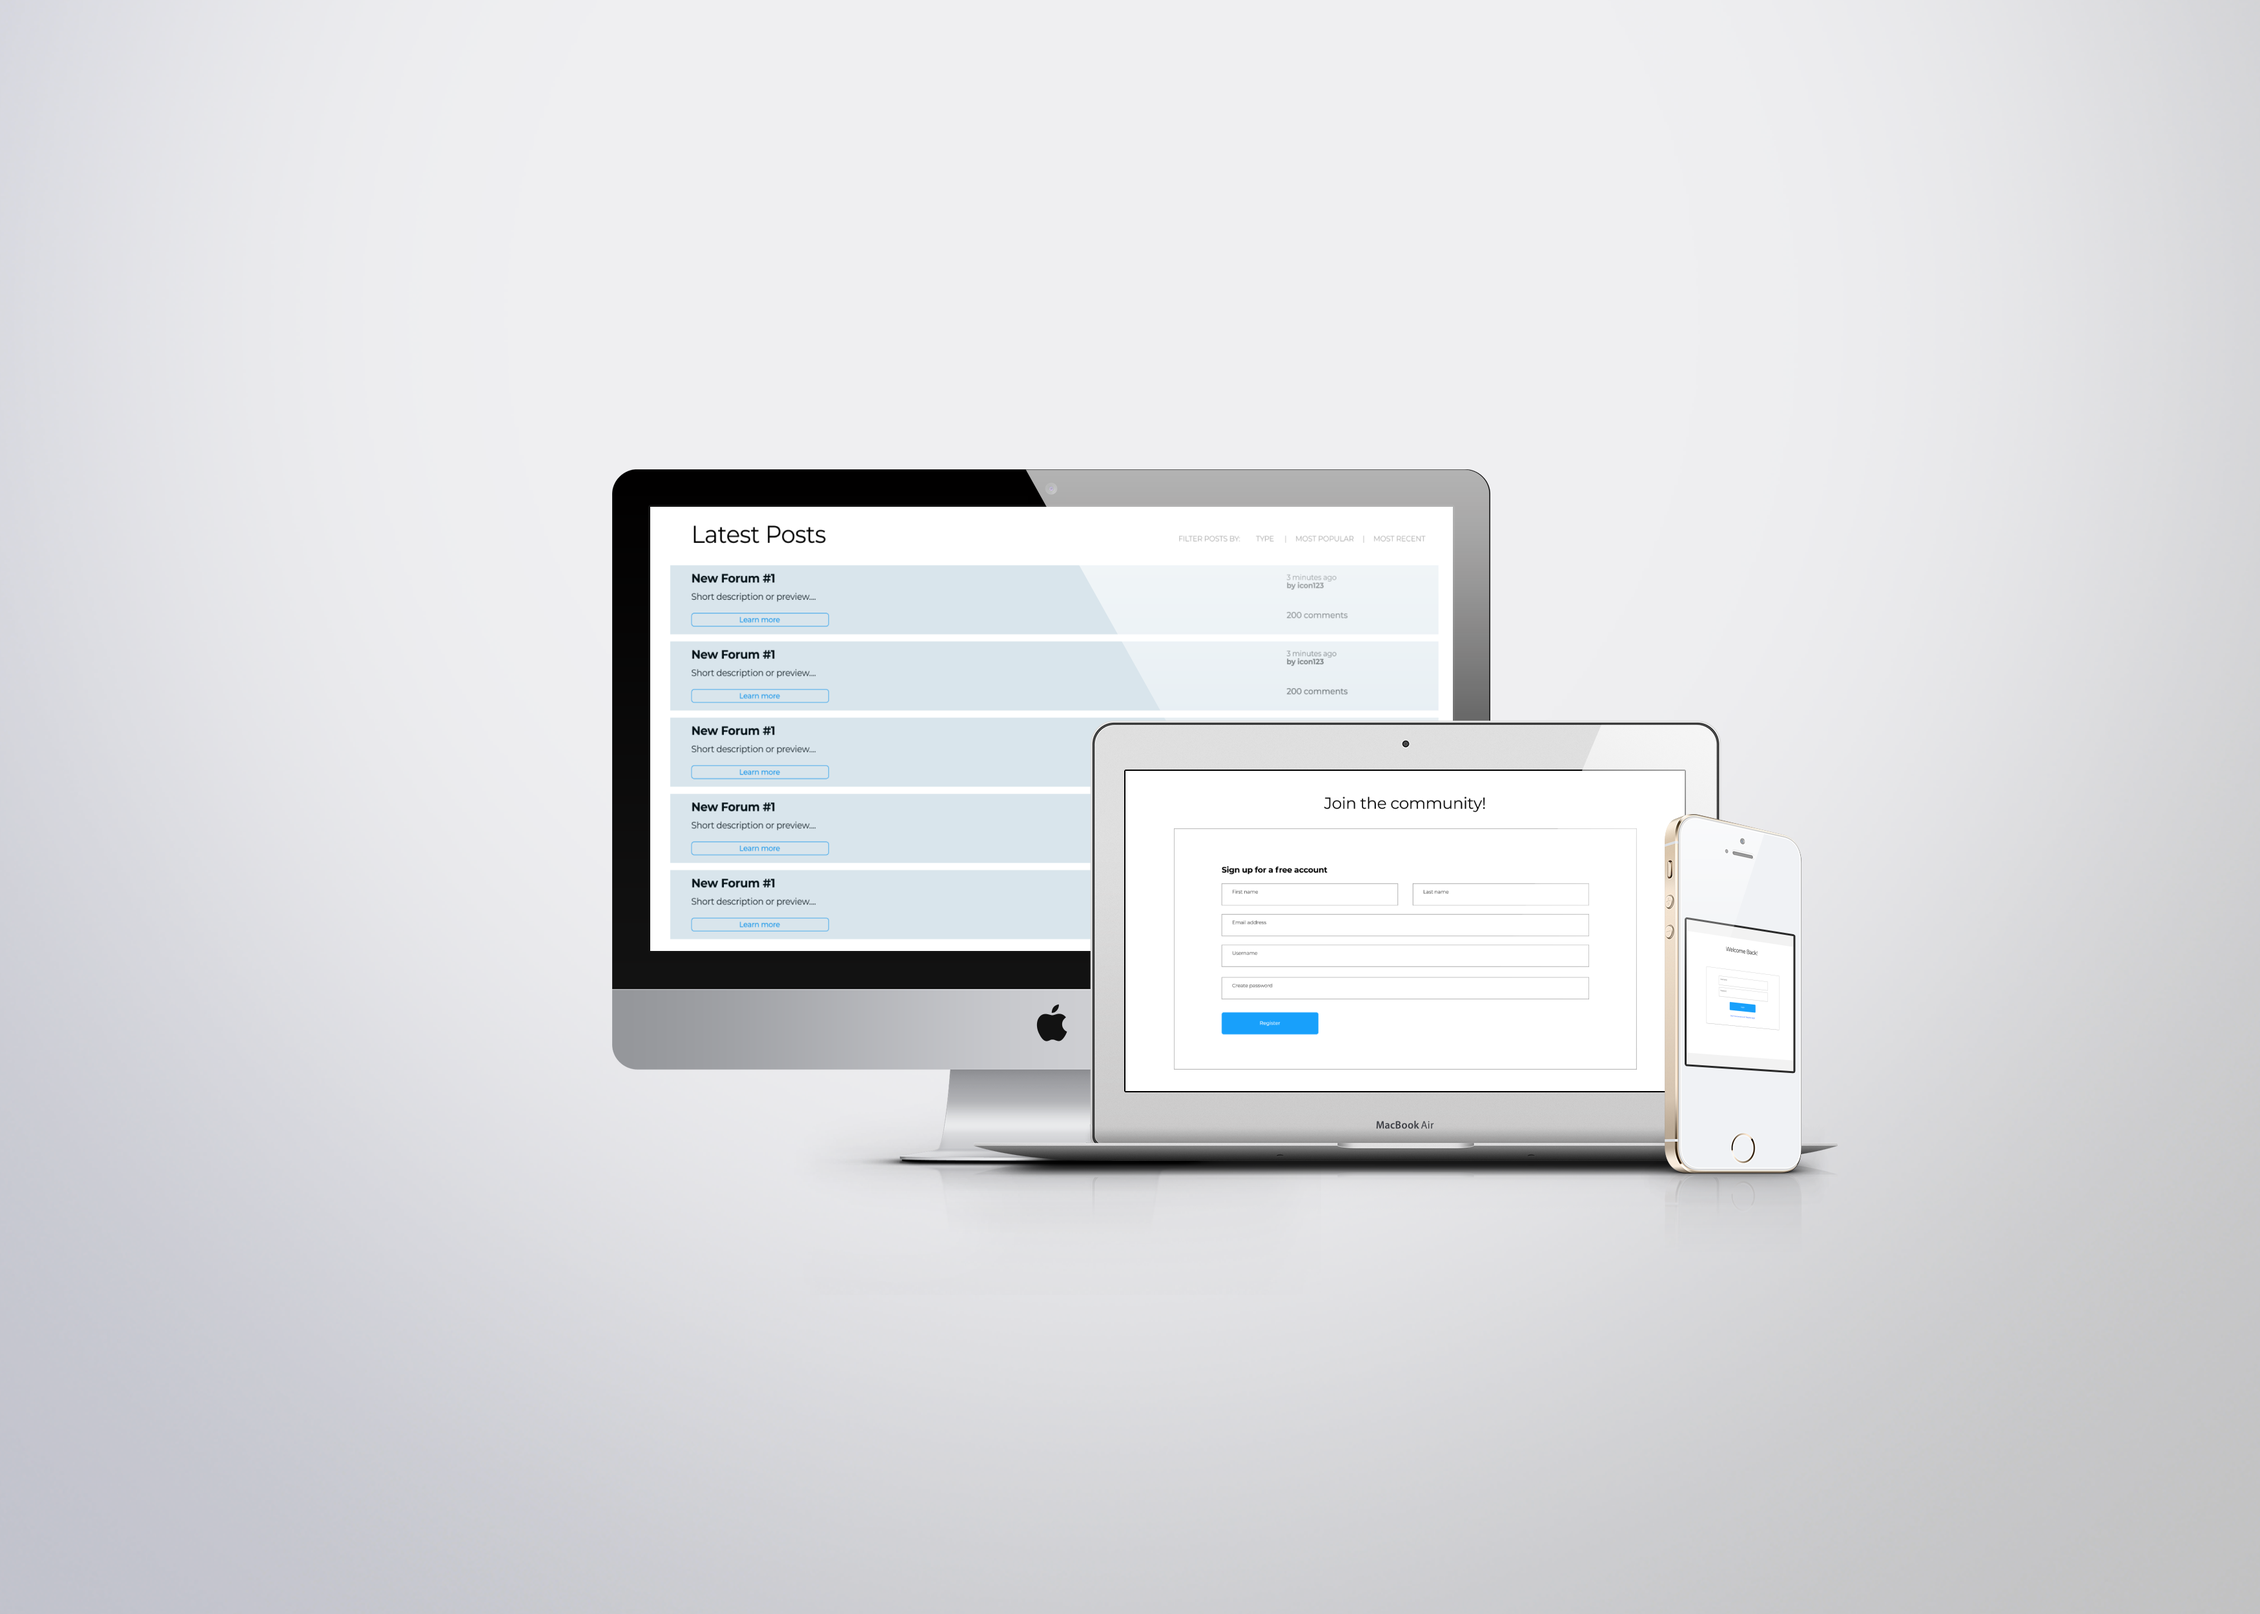
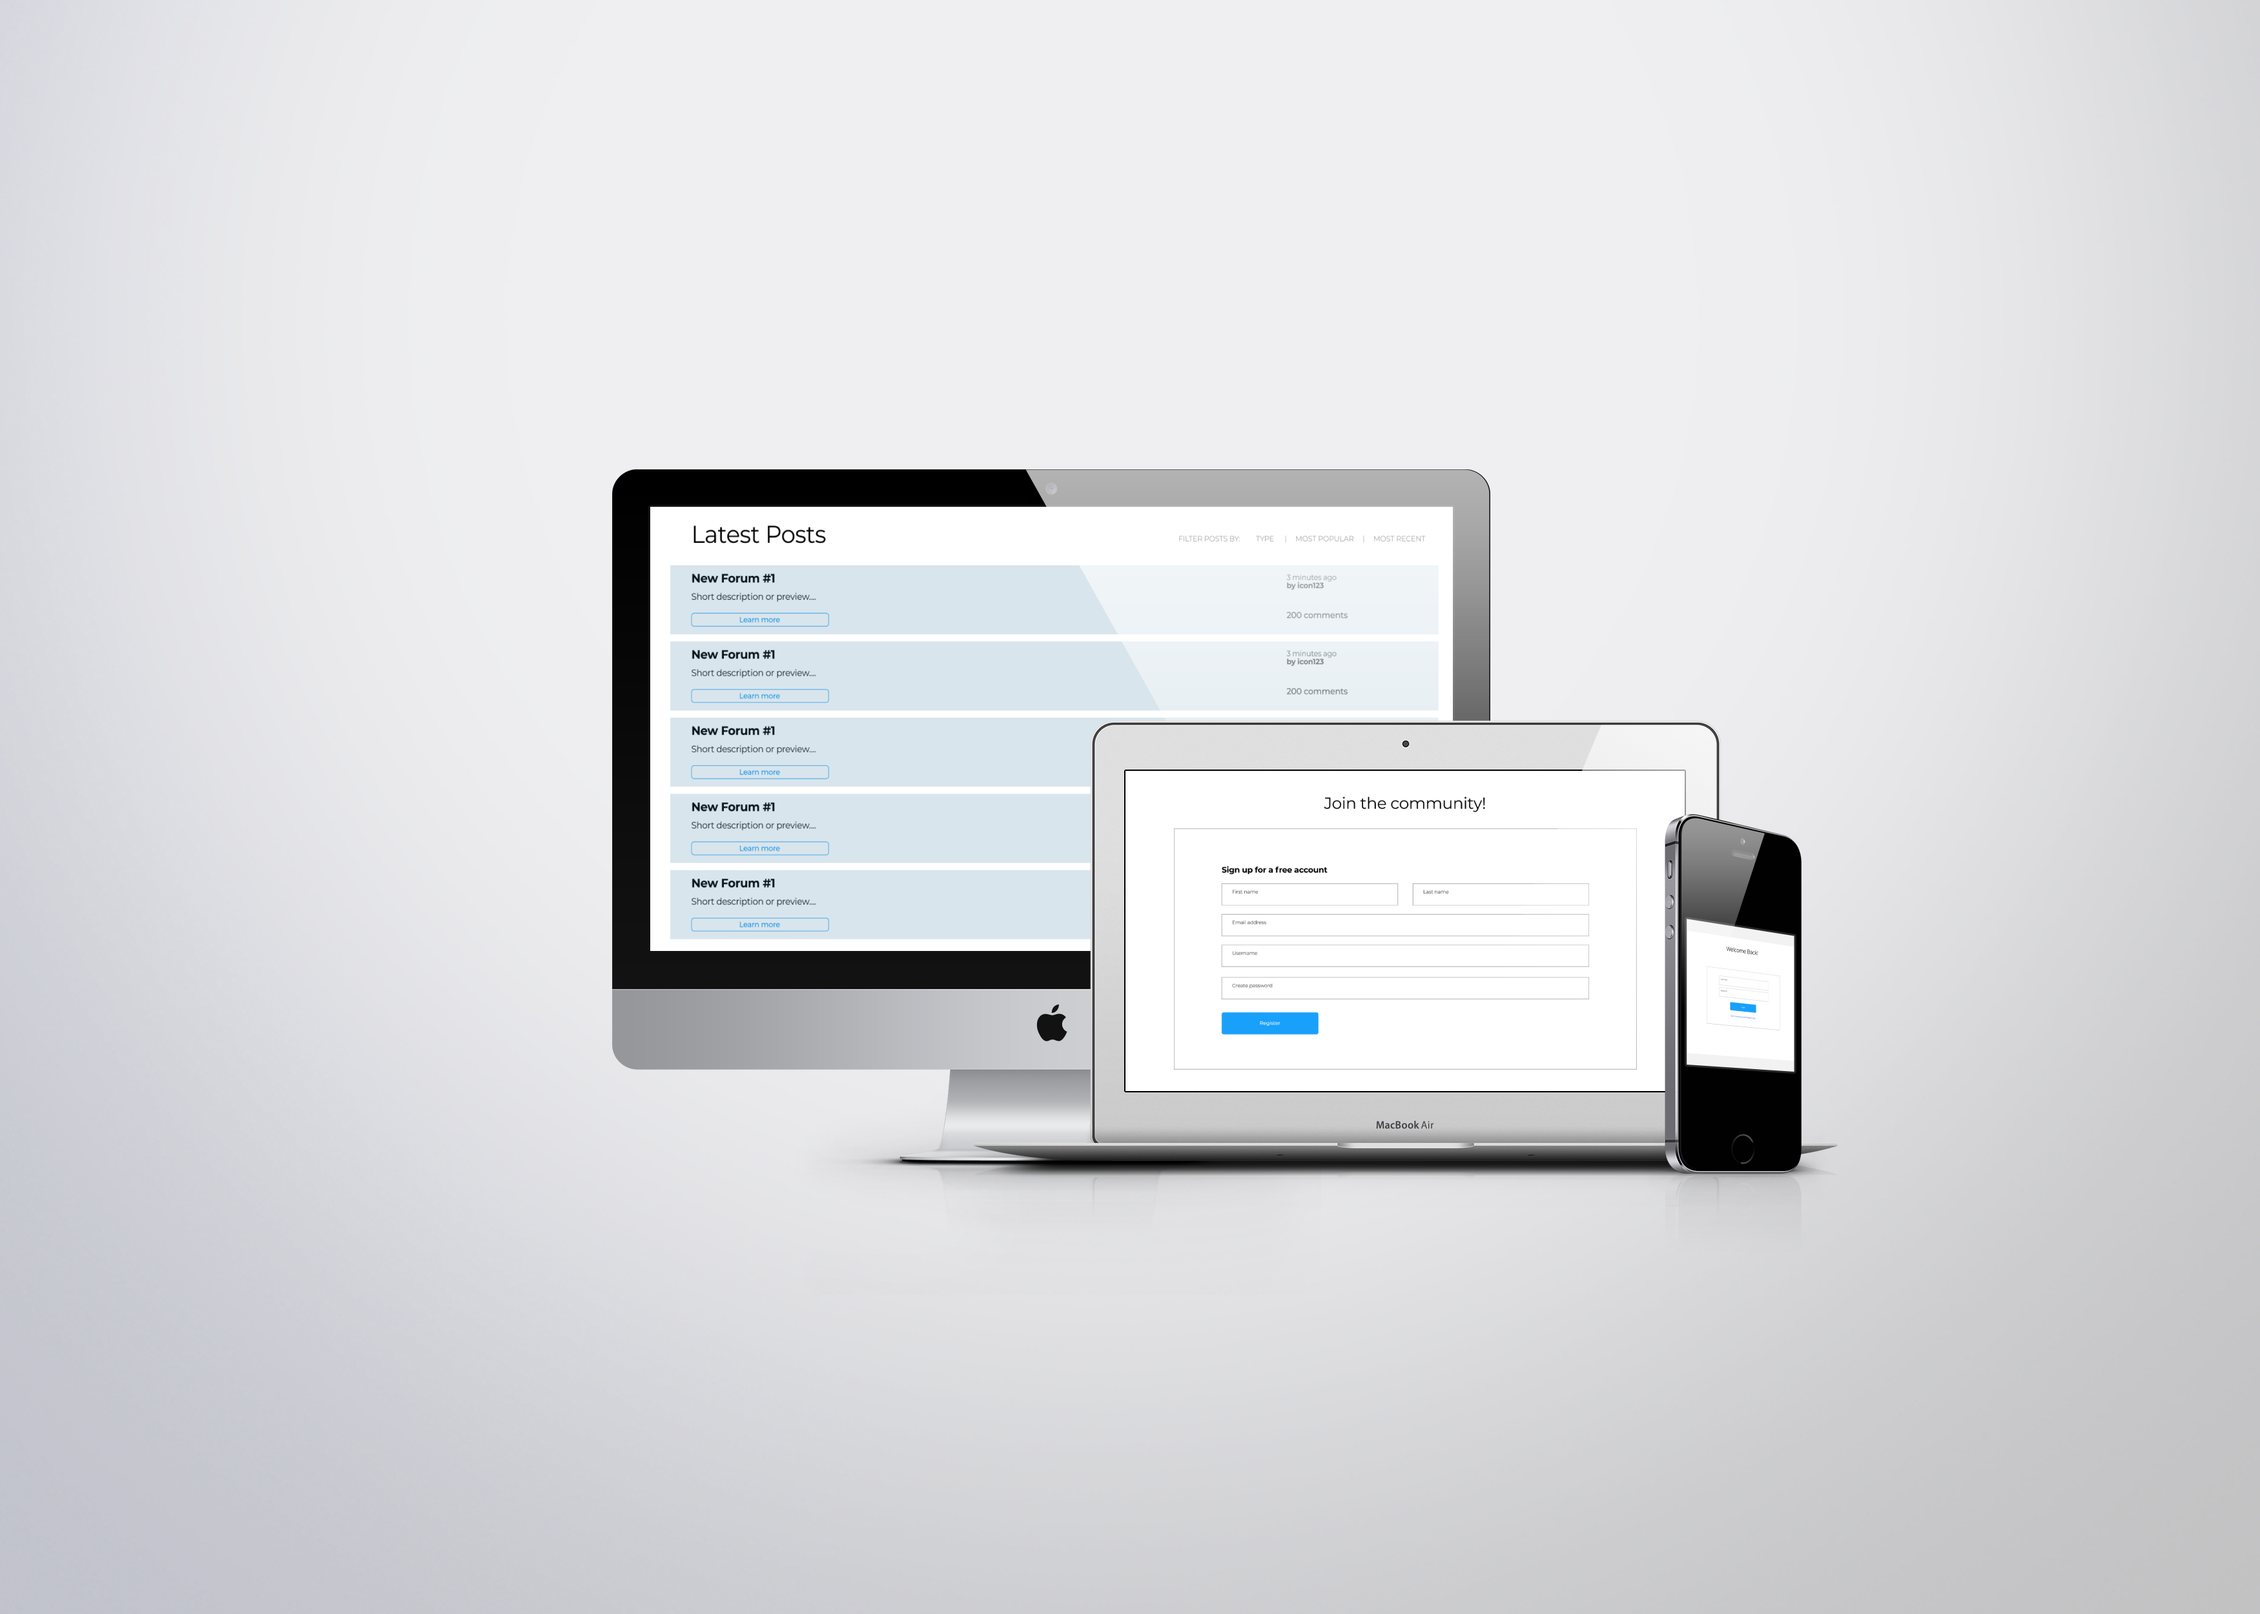
Fix ThreadShare picture

Changed region(s): [[0.7163, 0.4992, 0.8097, 0.7488]]

diff --git a/index.html b/index.html
@@ -26,7 +26,7 @@
 						<div class="content">
 							<div class="inner">
 								<h1>Jessie Mok</h1>
-								<p>Software Engineering Intern at Microsoft &#10;&#13; </br>
+								<p>Software Engineering Intern at Microsoft, C&AI &#10;&#13; </br>
 								   Previous Jr Software Developer II at Amazon, POD Tech &#10;&#13; </br>
 								   March 2021 Graduate</p>
 
